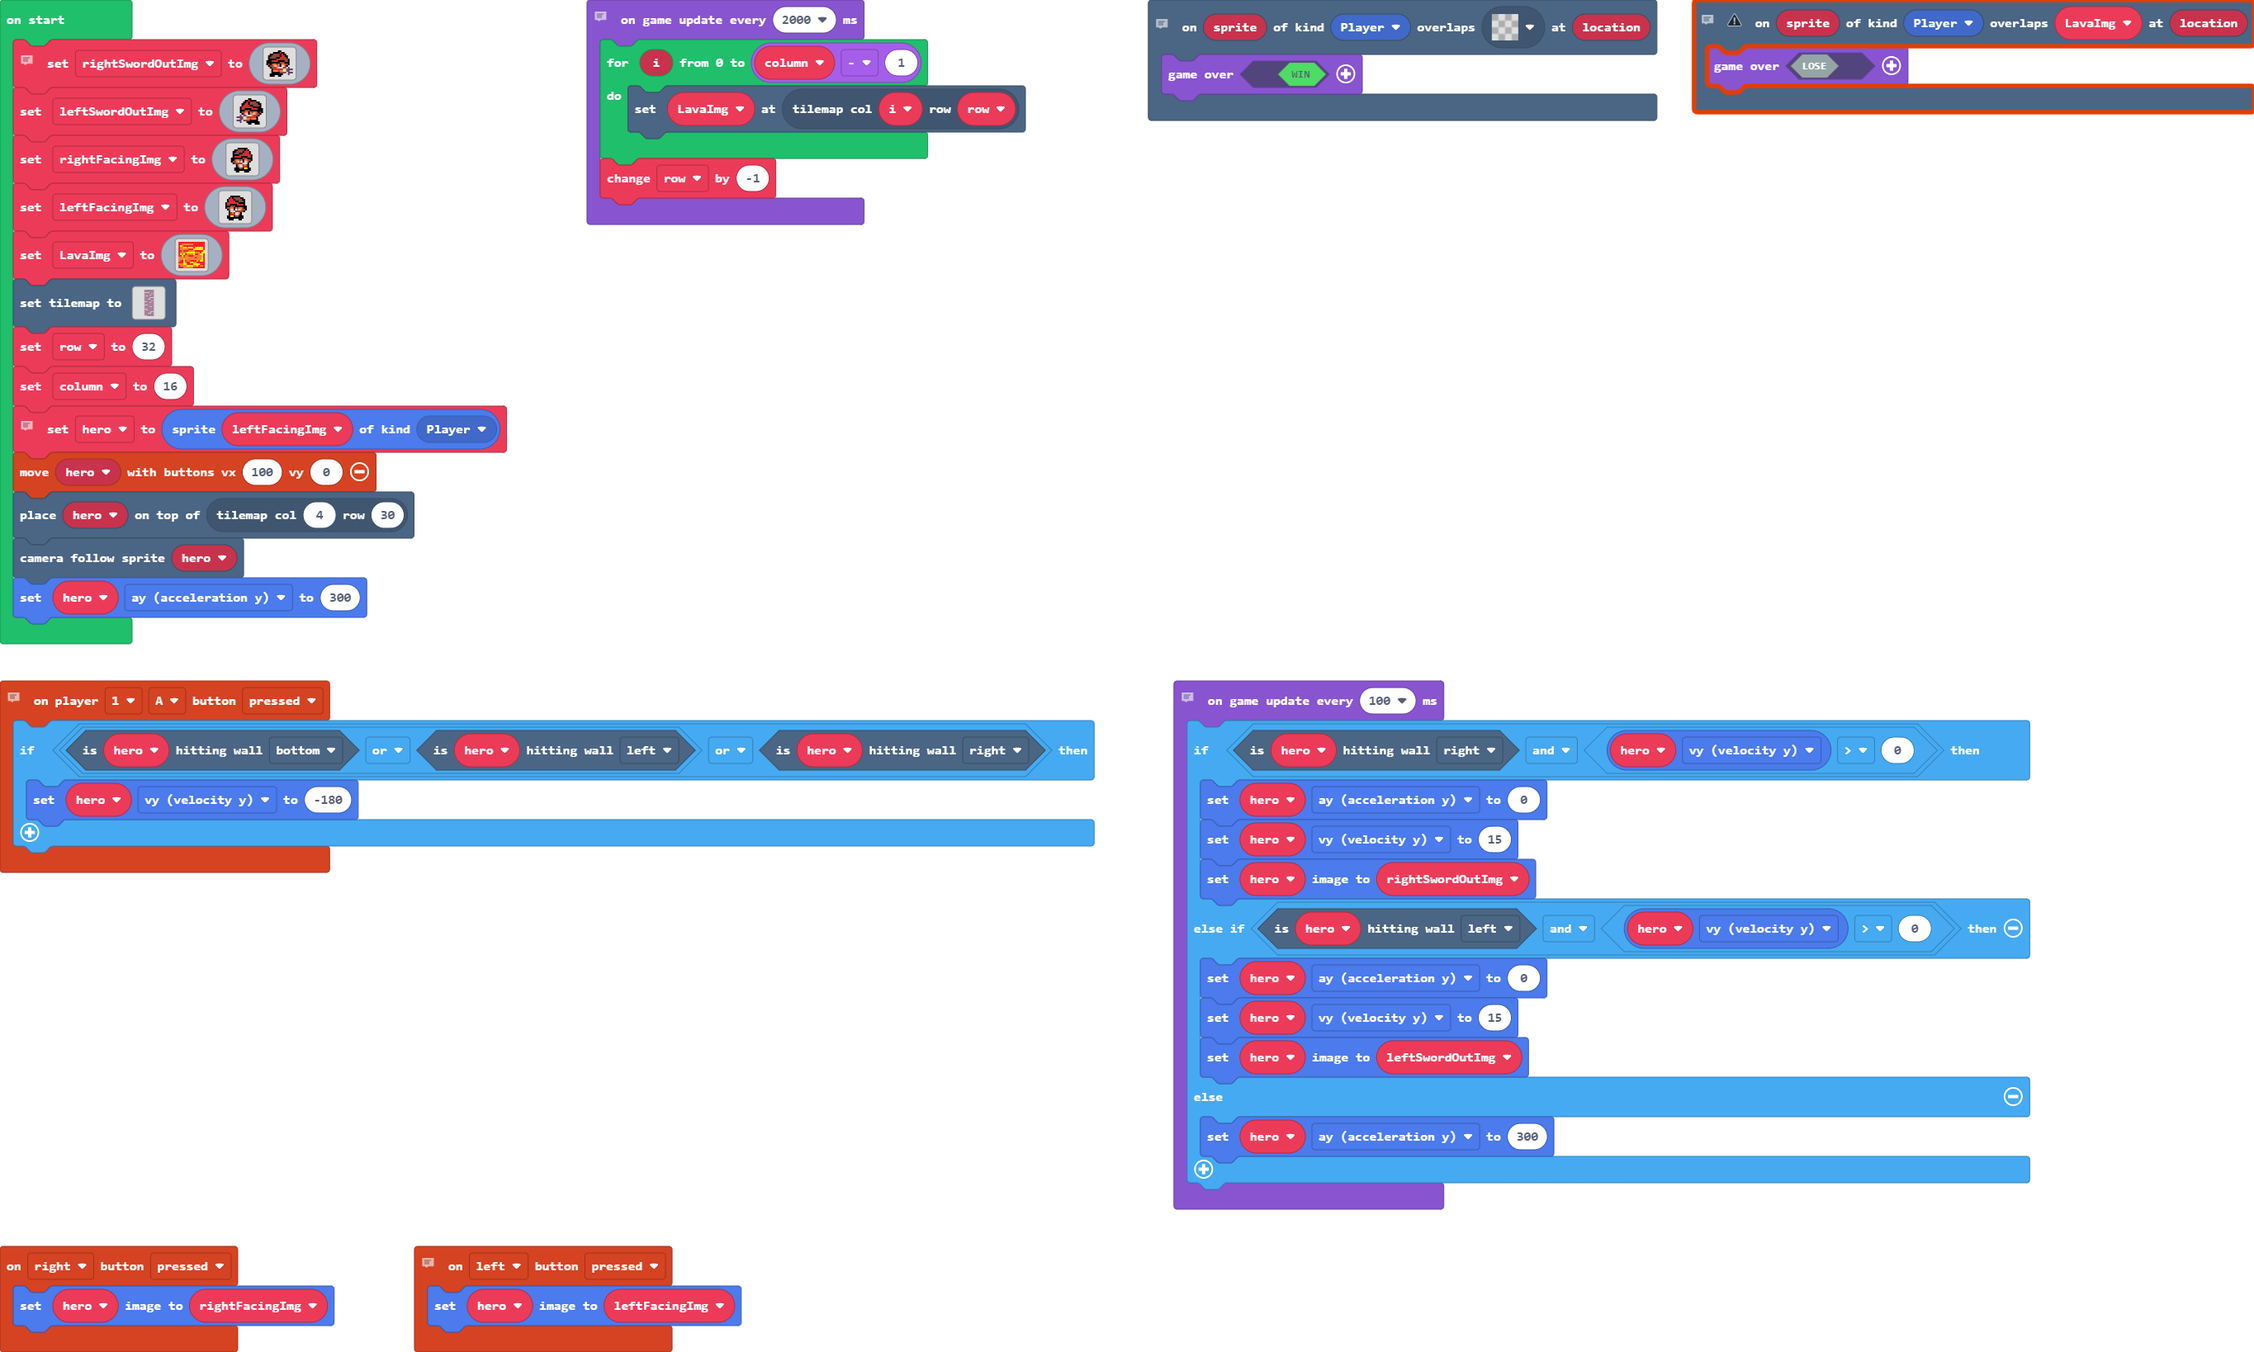
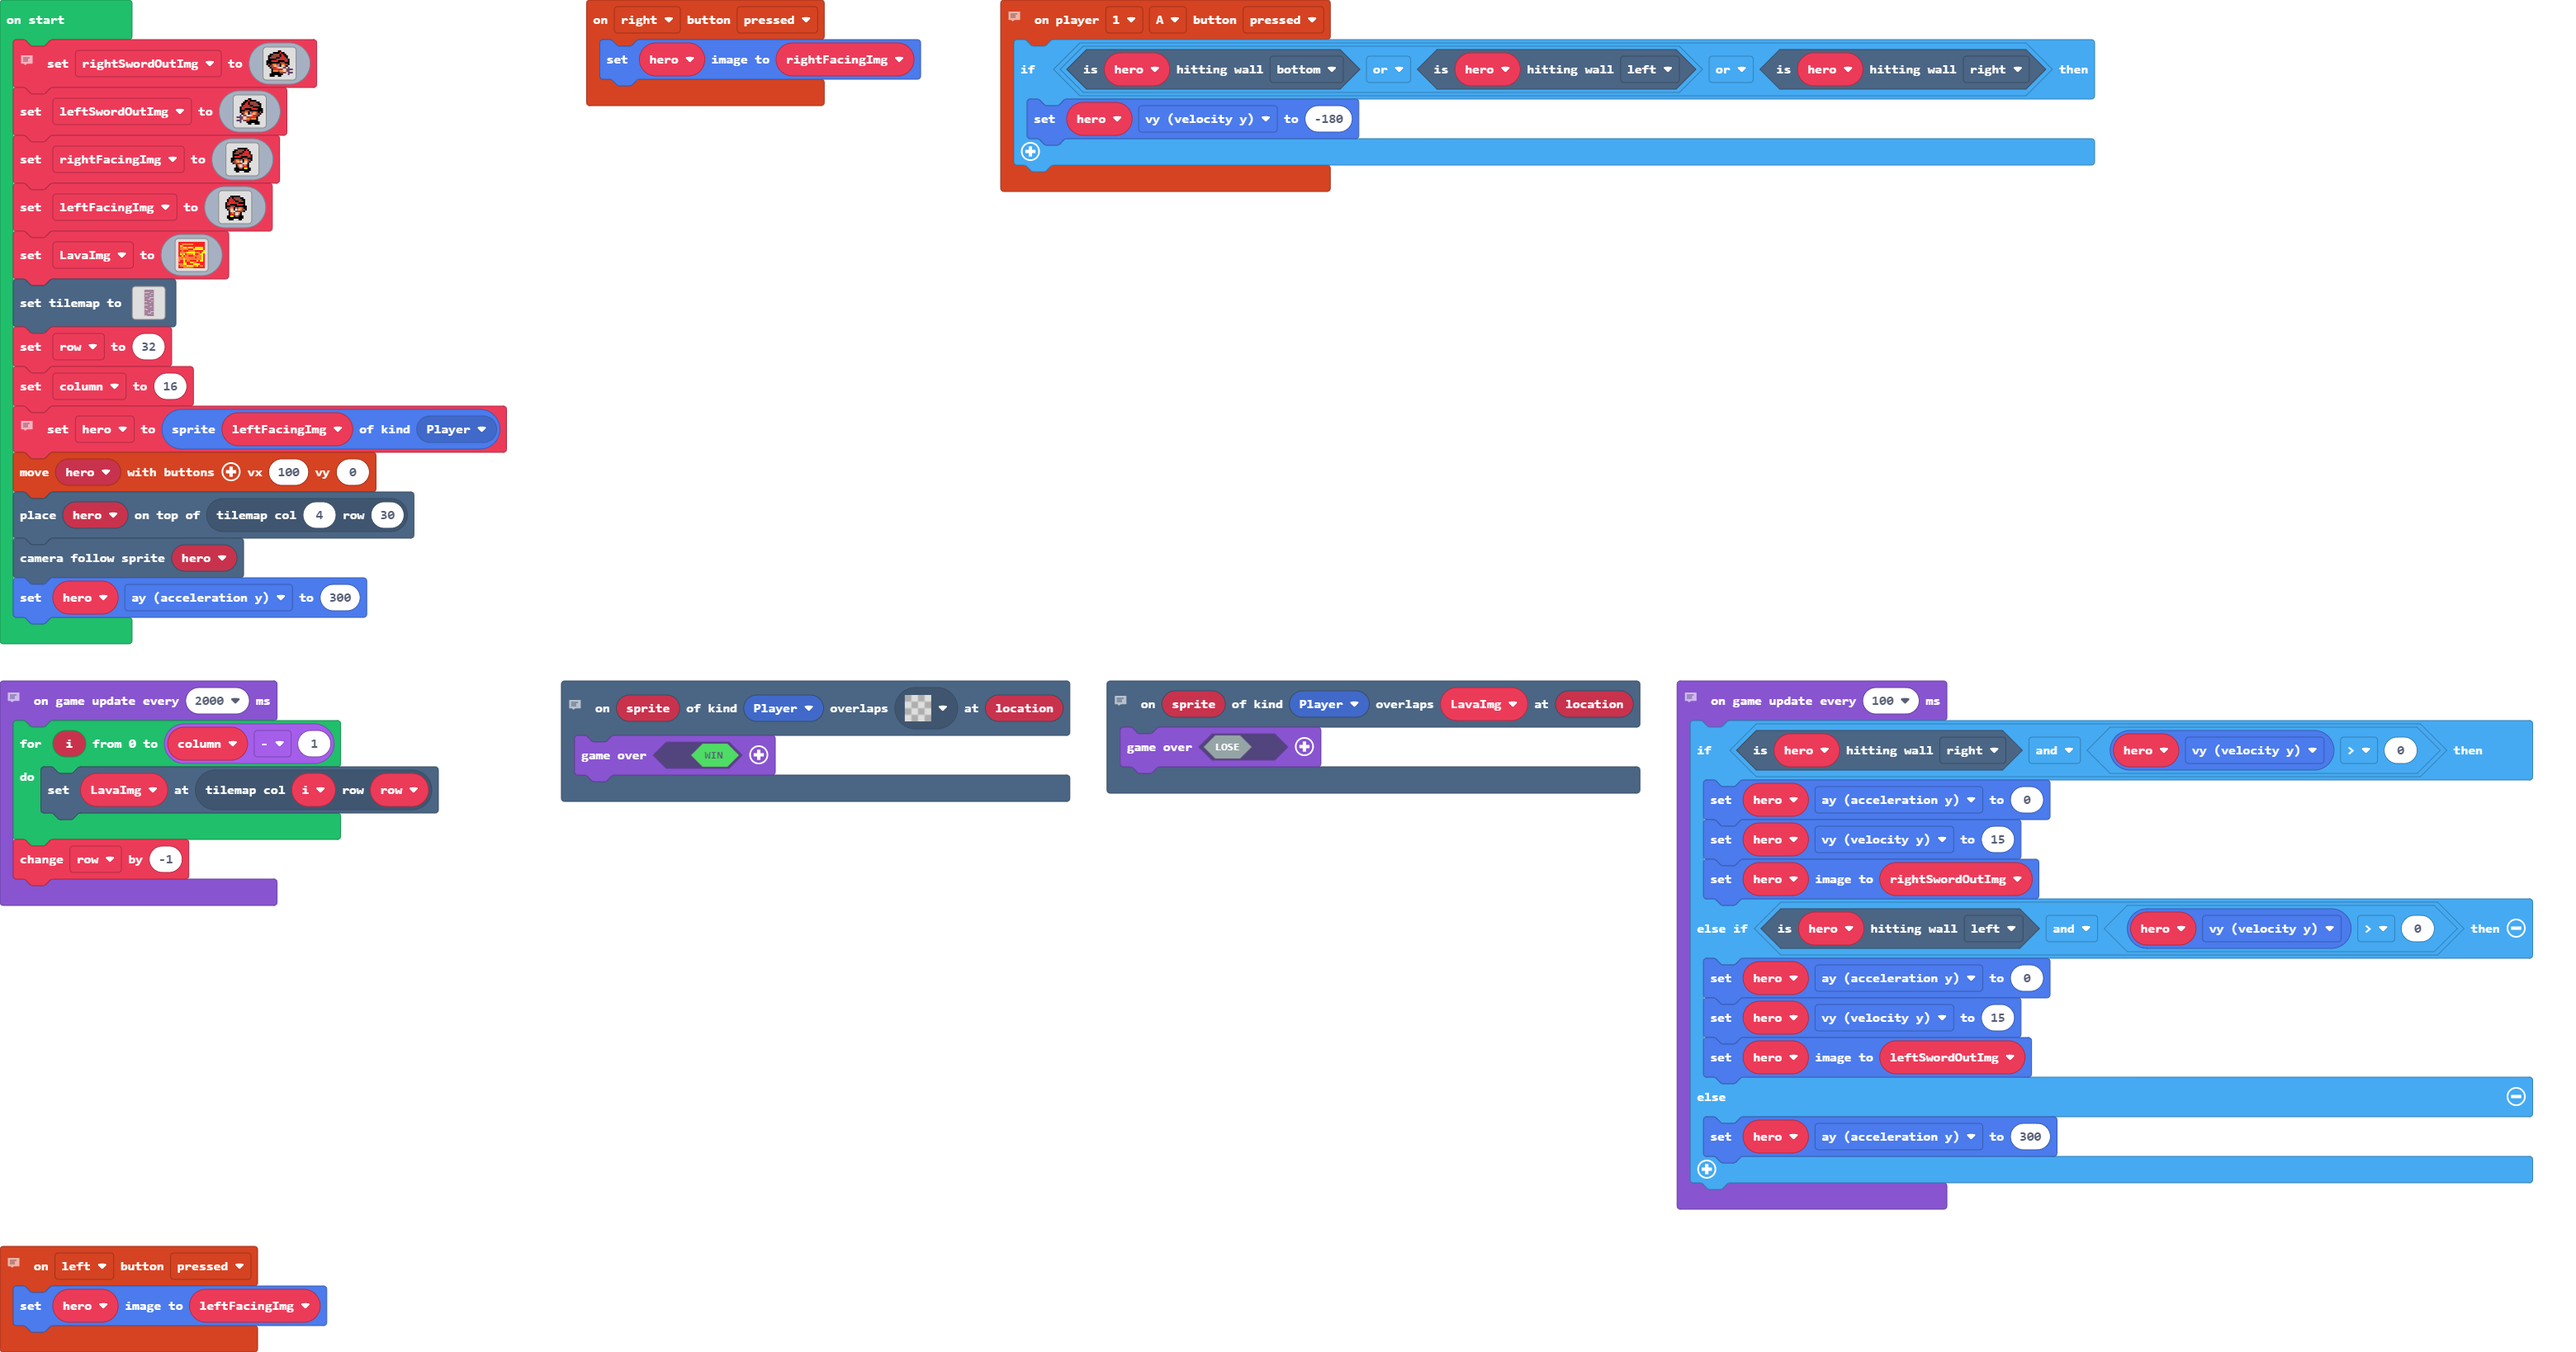
lava warning

diff --git a/main.ts b/main.ts
@@ -172,14 +172,21 @@ game.onUpdateInterval(100, function() {
 
 // Add Lava
 game.onUpdateInterval(2000, function() {
-    for (let i = 0; i < column; i++){
-        tiles.setTileAt(tiles.getTileLocation(i, row), LavaImg)
+    if (game.runtime() > 3000){
+        if (row == 32){
+            game.splash("BEWARE, LAVA IS COMING!")
+        }
+        else{
+            for (let i = 0; i < column; i++){
+            tiles.setTileAt(tiles.getTileLocation(i, row), LavaImg)
+            }
+        }
+        row--
     }
-    row--
 })
 
 // Win Condition
-scene.onOverlapTile(SpriteKind.Player, img` `, function(sprite: Sprite, location: tiles.Location) {
+scene.onOverlapTile(SpriteKind.Player, sprites.dungeon.chestClosed, function(sprite: Sprite, location: tiles.Location) {
     game.over(true)
 })
 
